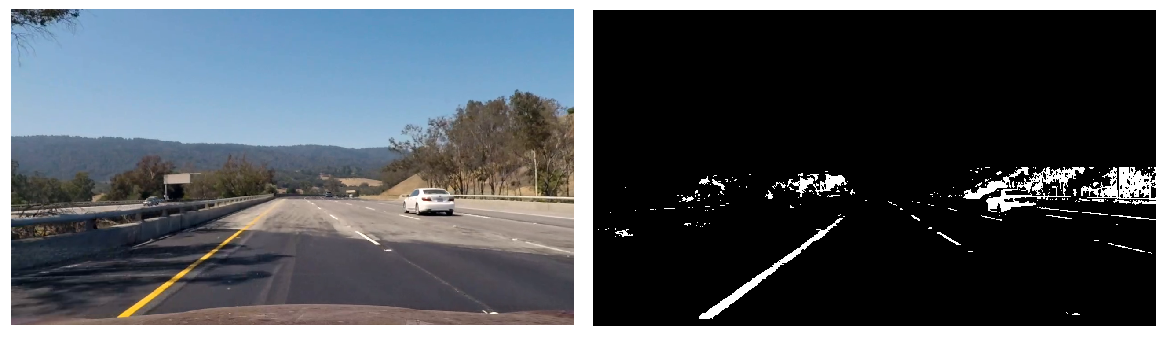
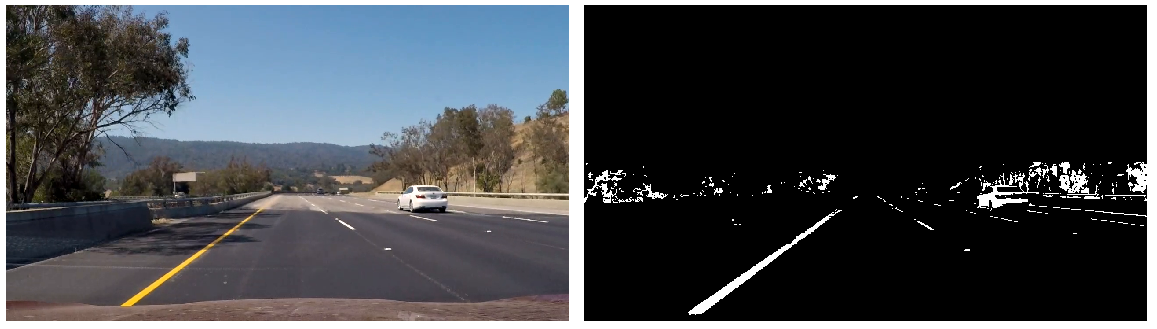
writeup fixes

diff --git a/repl.py b/repl.py
@@ -297,7 +297,7 @@ def thresh_grad_x(int_chan, roi_mask, gauss_kernel=3, sobel_kernel=3, low_tresho
     sx_mask = cv2.inRange(sx, low_treshold, 255) & cv2.inRange(int_chan, mean+std, 255)
     return sx_mask
 
-ppp = '.\\test_images\\frame-0.jpg'#testc3 testch13 test1 straight_lines2.jpg frame-545 532 484 612 520
+ppp = '.\\test_images\\frame-532.jpg'#testc3 testch13 test1 straight_lines2.jpg frame-545 532 484 612 520
     
 def pipeline_v3(img, roi_mask):
     res_mask = np.zeros(img.shape[:2],np.uint8)
@@ -780,7 +780,7 @@ class Pipeline():
         result = self.side_stack_imgs([result, np.dstack([binarized]*3),
                                        self.draw_finding_process(warped)])
         result = self.lane.draw_info(result,(970, 380))        
-        #lu.plot_img_grid([result], rows=1, cols=1, figsize=(7,3))
+        lu.plot_img_grid([result], rows=1, cols=1, figsize=(7,3))
         self.lane = new_lane
         return result     
         
@@ -802,7 +802,7 @@ persp_params = lu.load(persp_params_path)
 
 pipeline = Pipeline(calib_params_path, persp_params_path, 3.7/615, 3/118)
 #print(pipeline.left_line.keep_n_fits)  
-#result = pipeline.process_frame(img)
+result = pipeline.process_frame(img)
 #pipeline.process_video('project_video.mp4', 'test40.mp4')
 #pipeline.process_video('challenge_video.mp4', 'test40c.mp4')
 
@@ -818,8 +818,8 @@ img = lu.undistort(img, calib_params)
 #s = hsv[:,:,1]
 #v = hsv[:,:,2]
 #
-res = pipeline_v3(img, r_mask)
-lu.plot_img_grid([img,res],cmaps=[None,'gray'], rows=1, cols=2, figsize=(7,3))
+#res = pipeline_v3(img, r_mask)
+#lu.plot_img_grid([img,res],cmaps=[None,'gray'], rows=1, cols=2, figsize=(7,3))
 
 #bin = pipeline_v3(img, r_mask)
 #bin = bin & r_mask

diff --git a/writeup_report.md b/writeup_report.md
@@ -17,7 +17,13 @@ The goals / steps of this project are the following:
 [undistortedSample]: ./examples/undistort_sample.png "Undistorted Sample"
 [thresholding1]: ./examples/thresholding1.png "Binary Example 1"
 [thresholding2]: ./examples/thresholding2.png "Binary Example 2"
-[perspective1]: ./examples/perspective1.png "Perspective"
+[perspective0]: ./examples/perspective1.png "Perspective"
+[perspective1]: ./examples/perspective1.png "Perspective Example 1"
+[perspective2]: ./examples/perspective2.png "Perspective Example 2"
+[fit1]: ./examples/perspective1.png "Fit Example 1"
+[fit2]: ./examples/perspective2.png "Fit Example 2"
+[result1]: ./examples/result1.png "Result Example 1"
+[result2]: ./examples/result2.png "Result Example 2"
 [video1]: ./project_result.mp4 "Video"
 
 My project includes the following files:
@@ -56,15 +62,16 @@ I precalculated camera matrix and distortion coefficients once and saved them to
 
 #### 1. Provide an example of a distortion-corrected image.
 
-To demonstrate this step, I will describe how I apply the distortion correction to one of the test images like this one:
+For distortion correction i used cv2.undistort() function with previously calculated camera parameters (lines 24 to 32 of file labutils.py) 
+
+Here is example of applying distortion correction:
 
 ![Undistorted Sample][undistortedSample]
 
-I used cv2.undistort() function with preloaded camera parameters (lines 24 to 32 of file labutils.py) 
 
 #### 2. Describe how (and identify where in your code) you used color transforms, gradients or other methods to create a thresholded binary image.  Provide an example of a binary image result.
 
-I used a combination of fixed range color threshoding, with adaptive thresholding of value and saturation channels of image converted in HSV color space.
+I used a combination of fixed range color threshoding, with adaptive thresholding of value and saturation channels of image in HSV color space.
 
 Core idea of my adaptive thresholding routine, is analysis of trapezoidal region of interest (ROI) which is mainly contains pixels corresponding to road surface. 
 Most of these pixels with lower intensity are corresponding to pavement, and few of them corresponding to marking and usually have higher intensity.
@@ -85,7 +92,7 @@ Here are examples of my output for this step.  (note: this is not actually from 
 #### 3. Describe how (and identify where in your code) you performed a perspective transform and provide an example of a transformed image.
 
 I used single pair of direct and inverse perspective transformation matrices for whole video. 
-I precalculated this matrices once and store them in a file to later use (lines 14 to 19 of file perspective.py). 
+I precalculated this matrices once and save them in a file to later use similary as for calibration parameters (lines 14 to 19 of file perspective.py). 
 For this step i used one undistorted frame with straight lines from the project video. I chose centered trapezoid points as source points of transformation, and centered rectangle points as destination point.
 I chose size of trapezoid such that perspective transform turns lane lines of frame to roughly parallel vertical lines.
 I chose size of destination rectangle such that proportions in x and y directions were somewhat close to real, to decrease errors in calculations.
@@ -101,13 +108,19 @@ This resulted in the following source and destination points:
 I verified that my perspective transform was working as expected by drawing the source trapezoid onto a test image and its warped counterpart with destination rectangle to verify that the lines appear parallel in the warped image.
 Here is source trapezoid drawn with red color, and target rectangle drawn with cyan.
 
+![perspective0][perspective0]
+
+Here are examples of perspective transformation applied to thresholded images from previus step:
 ![perspective1][perspective1]
+![perspective2][perspective2]
+
 
 #### 4. Describe how (and identify where in your code) you identified lane-line pixels and fit their positions with a polynomial?
 
 Then I did some other stuff and fit my lane lines with a 2nd order polynomial kinda like this:
 
-![alt text][image5]
+![fit1][fit1]
+![fit2][fit2]
 
 #### 5. Describe how (and identify where in your code) you calculated the radius of curvature of the lane and the position of the vehicle with respect to center.
 
@@ -117,7 +130,8 @@ I did this in lines # through # in my code in `my_other_file.py`
 
 I implemented this step in lines # through # in my code in `yet_another_file.py` in the function `map_lane()`.  Here is an example of my result on a test image:
 
-![alt text][image6]
+![result1][result1]
+![result2][result2]
 
 ---
 
